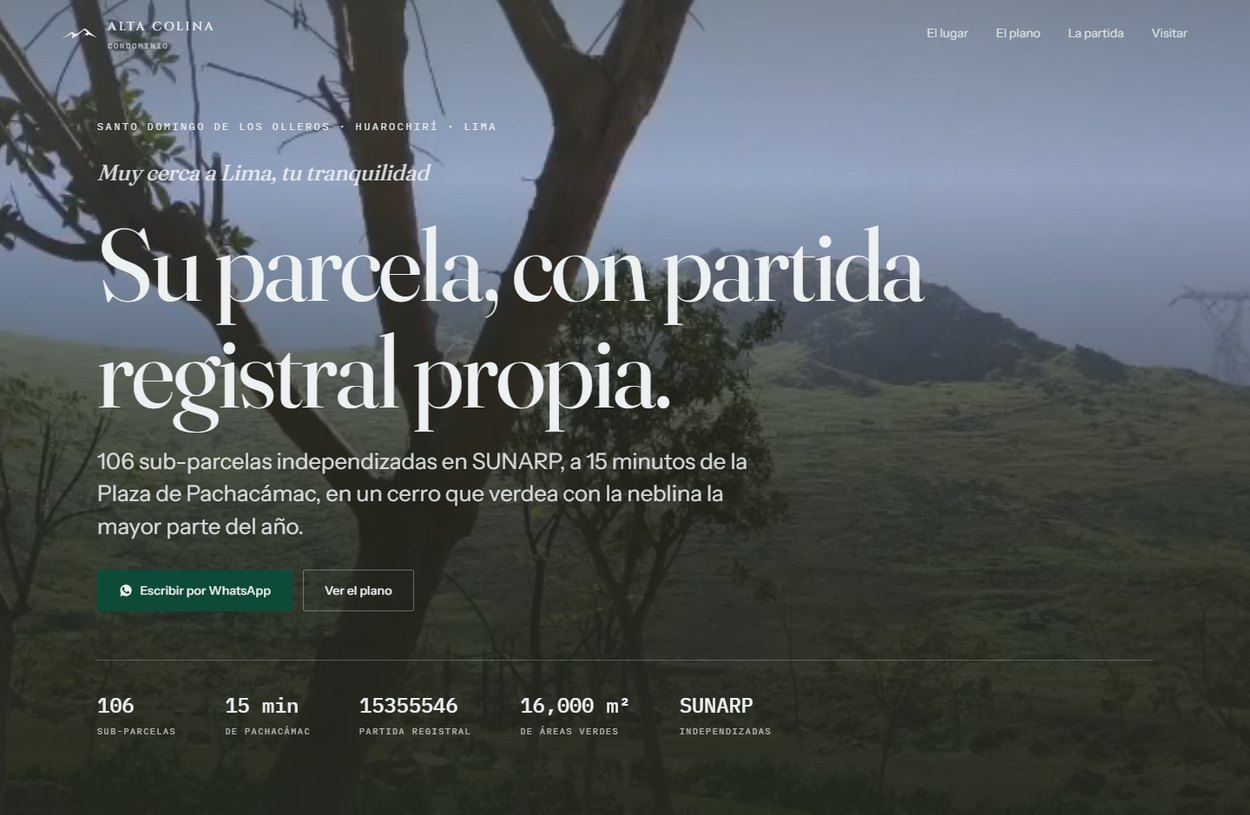
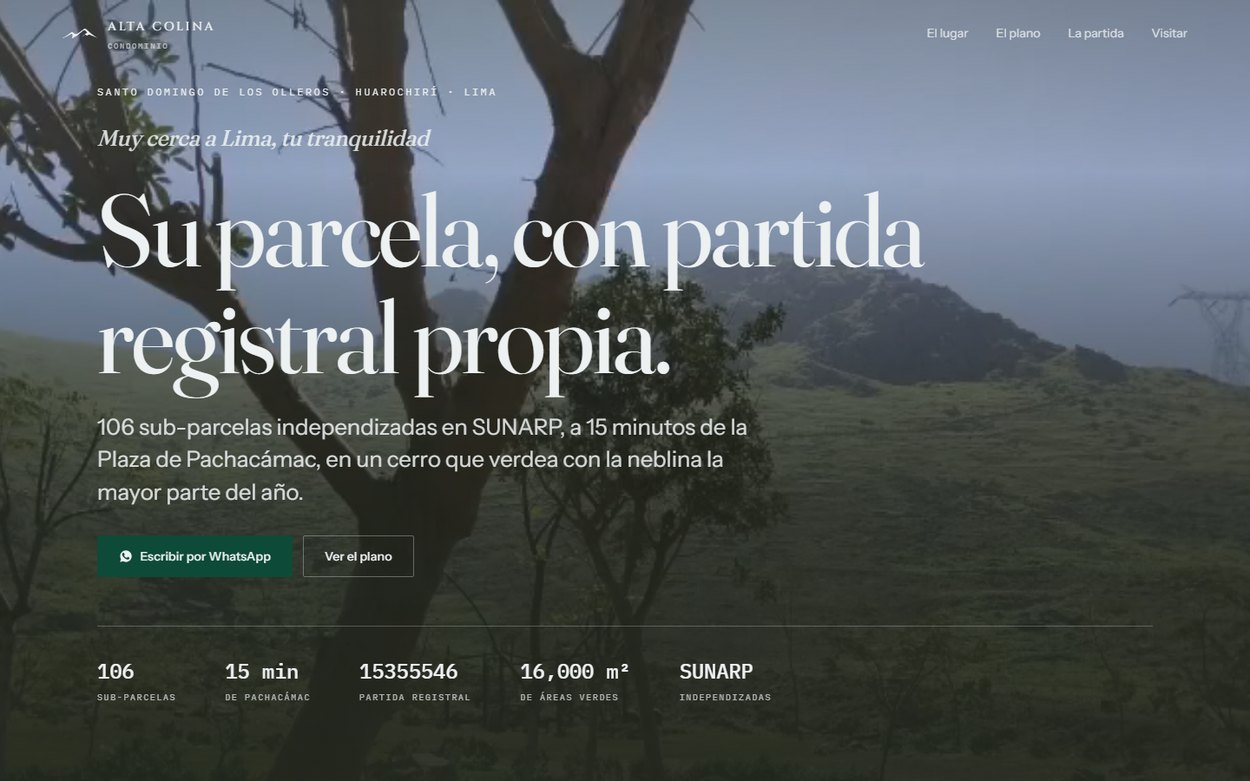
Apuntar las direcciones al sitio que si existe
alta-colina.com sale en el brochure del cliente pero el dominio NO esta
registrado: el DNS ni siquiera resuelve. Con canonical, og:url y og:image
apuntando ahi, al compartir el link por WhatsApp no cargaba la foto de vista
previa, y Google veia un canonical roto.

Ahora apuntan a by0nder.github.io/alta-colina. Queda un comentario en el HTML
para volver a cambiarlas el dia que compren el dominio.

Tambien: og:image con sus medidas (WhatsApp y Facebook muestran mejor la
previa), robots.txt y sitemap.xml.

diff --git a/index.html b/index.html
@@ -5,15 +5,20 @@
 <meta name="viewport" content="width=device-width, initial-scale=1">
 <title>Alta Colina — Condominio · Parcelas a 15 minutos de Pachacámac</title>
 <meta name="description" content="106 sub-parcelas independizadas en SUNARP, a 15 minutos de la Plaza de Pachacámac. Cerco perimetral, pórtico, áreas verdes, biodigestores y planos de arquitectura para su futura casa.">
-<link rel="canonical" href="https://alta-colina.com/">
+<!-- OJO: cuando compren alta-colina.com y lo apunten aquí, cambiar estas cuatro
+     direcciones y las del JSON-LD de abajo. Hoy el dominio no existe (no resuelve),
+     y si apuntan ahí, al compartir el link no se ve la foto de vista previa. -->
+<link rel="canonical" href="https://by0nder.github.io/alta-colina/">
 
 <meta property="og:type" content="website">
 <meta property="og:locale" content="es_PE">
 <meta property="og:site_name" content="Alta Colina">
 <meta property="og:title" content="Alta Colina — Su parcela con partida registral propia">
 <meta property="og:description" content="106 sub-parcelas independizadas en SUNARP, a 15 minutos de la Plaza de Pachacámac. Cerco perimetral, pórtico, áreas verdes y biodigestores instalados.">
-<meta property="og:url" content="https://alta-colina.com/">
-<meta property="og:image" content="https://alta-colina.com/material/web/proyecto-portico-entrada.jpg">
+<meta property="og:url" content="https://by0nder.github.io/alta-colina/">
+<meta property="og:image" content="https://by0nder.github.io/alta-colina/material/web/proyecto-portico-entrada.jpg">
+<meta property="og:image:width" content="1440">
+<meta property="og:image:height" content="1084">
 <meta property="og:image:alt" content="Pórtico de ladrillo del condominio Alta Colina con el cerro verde de fondo">
 <meta name="twitter:card" content="summary_large_image">
 
@@ -658,9 +663,9 @@
   "@context": "https://schema.org",
   "@type": "RealEstateListing",
   "name": "Alta Colina — Condominio",
-  "url": "https://alta-colina.com/",
+  "url": "https://by0nder.github.io/alta-colina/",
   "description": "106 sub-parcelas independizadas en SUNARP a 15 minutos de la Plaza de Pachacámac, en Santo Domingo de los Olleros. Cerco perimetral, pórtico, áreas verdes, cerco vivo con riego por goteo y biodigestores instalados.",
-  "image": "https://alta-colina.com/material/web/proyecto-portico-entrada.jpg",
+  "image": "https://by0nder.github.io/alta-colina/material/web/proyecto-portico-entrada.jpg",
   "telephone": "+51970166956",
   "email": "panorama-pachacamac@live.com",
   "address": {
